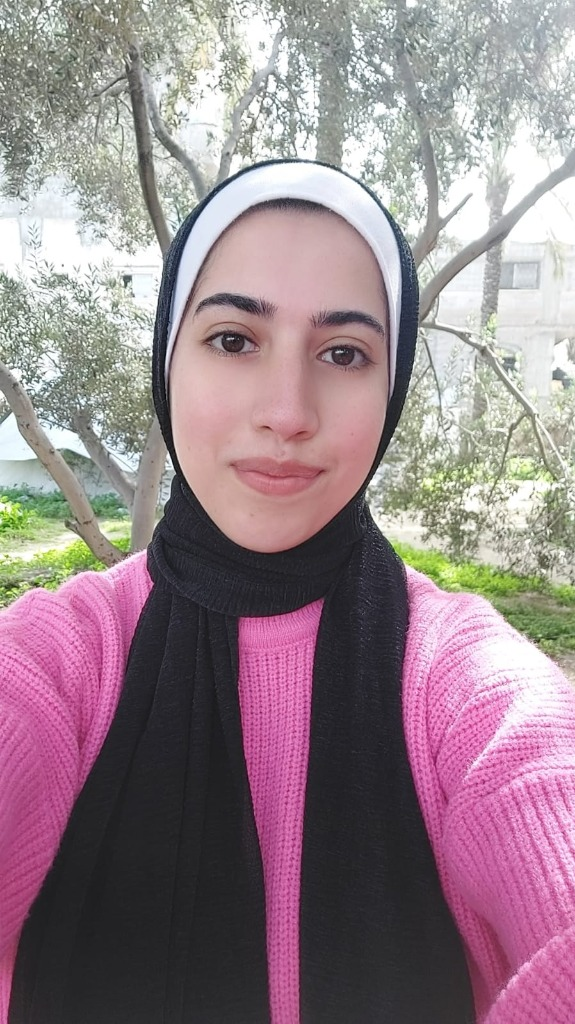
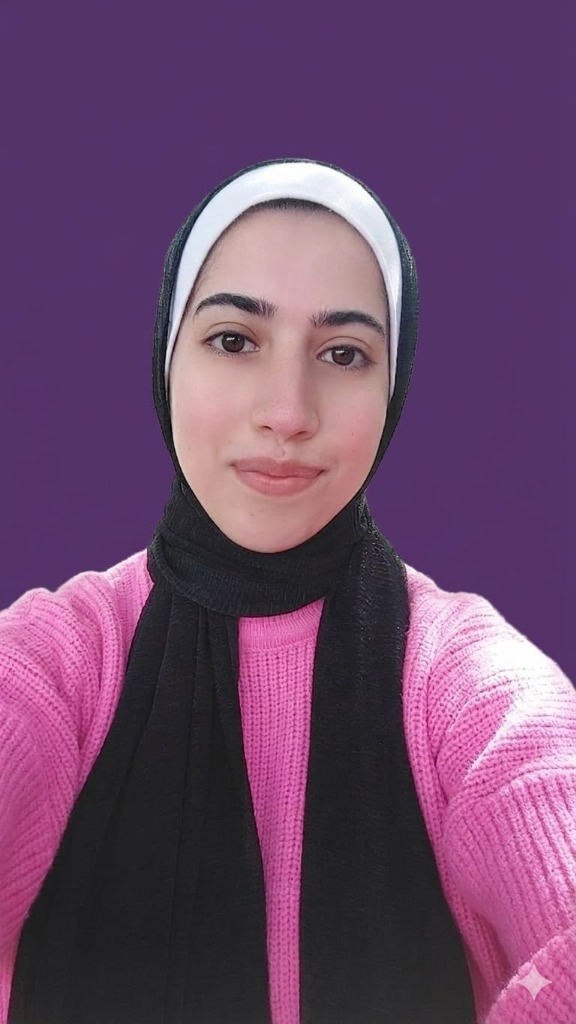
feat: Add Contact component and profile image.

diff --git a/src/components/Contact.jsx b/src/components/Contact.jsx
@@ -3,7 +3,7 @@ import { Mail, Github, Linkedin, Calendar } from "lucide-react";
 
 const Contact = () => {
     const socialLinks = [
-        { icon: <Mail size={24} />, href: "mailto:ayshavolidis@email.com", label: "Email" },
+        { icon: <Mail size={24} />, href: "mailto:ayshavolidis@gmail.com", label: "Email" },
         { icon: <Github size={24} />, href: "https://github.com/ayshavolidis", label: "GitHub" },
         { icon: <Linkedin size={24} />, href: "https://linkedin.com/in/ayshavolidis", label: "LinkedIn" },
     ];
